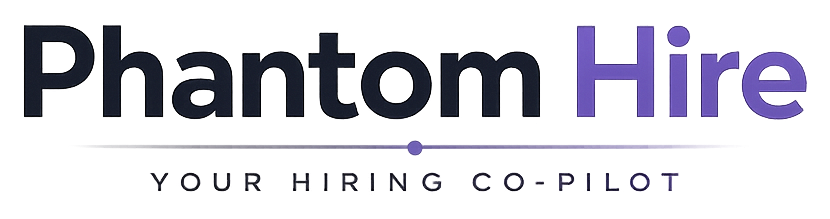
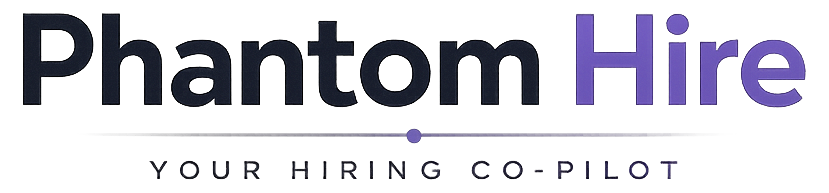
Restore hero ghost mascot, refresh wordmark, fix stale ATS copy
The home hero's big illustration was accidentally swapped to the new
mountain-A brand mark when phantom-icon.png got repointed sitewide for the
nav/footer/auth-shell icon — the hero needs the original ghost mascot, not
the small brand mark, so it gets its own dedicated asset
(phantom-ghost-hero.png) instead of sharing phantom-icon.png.

phantom-wordmark.png re-exported from the freshly uploaded text logo
source (same design, cleaner crop).

three-in-one-section.tsx was still describing Shadow as "Coming soon" and
labeling the ATS pillar "Talent ATS" with a generic Kanban icon — both
wrong now that Shadow actually shipped. Fixed the copy to "Live now" for
Shadow, renamed the pillar to "Phantom ATS" (matching the earlier product
naming decision that never got applied here), and swapped both pillars'
generic Lucide icons for the real product marks (Shadow's ghost, Phantom
ATS's mountain-A).

diff --git a/frontend/src/components/marketing/three-in-one-section.tsx b/frontend/src/components/marketing/three-in-one-section.tsx
@@ -1,28 +1,39 @@
-import { Bot, EyeOff, KanbanSquare } from "lucide-react";
+import Image from "next/image";
+import { Bot } from "lucide-react";
+import type { LucideIcon } from "lucide-react";
 
 import { Badge } from "@/components/ui/badge";
 
-const PILLARS = [
+interface Pillar {
+  title: string;
+  subtitle: string;
+  body: string;
+  status: "Live now" | "Coming soon";
+  icon?: LucideIcon;
+  image?: { src: string; alt: string };
+}
+
+const PILLARS: Pillar[] = [
   {
-    icon: EyeOff,
+    image: { src: "/shadow-icon.png", alt: "" },
     title: "Shadow",
     subtitle: "The anonymous job board",
     body: "Where candidates discover and apply to roles under a Callsign, not a name — staying in the shadows until they choose to step forward.",
-    status: "Coming soon" as const,
+    status: "Live now",
   },
   {
-    icon: KanbanSquare,
-    title: "Talent ATS",
+    image: { src: "/phantom-icon.png", alt: "" },
+    title: "Phantom ATS",
     subtitle: "Your hiring pipeline, end to end",
     body: "Hiring projects, candidate tracking, roles and permissions — the pipeline your team already runs on, built around Zero-Retention from day one.",
-    status: "Live now" as const,
+    status: "Live now",
   },
   {
     icon: Bot,
     title: "Phantom",
     subtitle: "The AI Assistant",
     body: "Reads job descriptions, screens candidates, drafts questions, and briefs the hiring manager — automatically, in the background.",
-    status: "Live now" as const,
+    status: "Live now",
   },
 ];
 
@@ -47,7 +58,17 @@ export function ThreeInOneSection() {
             >
               <div className="flex items-center justify-between">
                 <div className="flex h-10 w-10 items-center justify-center rounded-xl bg-brand/10 text-brand">
-                  <pillar.icon className="h-5 w-5" />
+                  {pillar.image ? (
+                    <Image
+                      src={pillar.image.src}
+                      alt={pillar.image.alt}
+                      width={40}
+                      height={40}
+                      className="h-6 w-6 object-contain"
+                    />
+                  ) : pillar.icon ? (
+                    <pillar.icon className="h-5 w-5" />
+                  ) : null}
                 </div>
                 <Badge variant={pillar.status === "Live now" ? "success" : "outline"}>
                   {pillar.status}

diff --git a/frontend/src/components/marketing/hero-section.tsx b/frontend/src/components/marketing/hero-section.tsx
@@ -90,7 +90,7 @@ export function HeroSection() {
         <div className="relative flex items-center justify-center">
           <div className="absolute h-72 w-72 rounded-full bg-brand/10 blur-3xl" aria-hidden />
           <Image
-            src="/phantom-icon.png"
+            src="/phantom-ghost-hero.png"
             alt="Phantom, the invisible TA partner"
             width={668}
             height={844}

diff --git a/frontend/src/components/marketing/marketing-footer.tsx b/frontend/src/components/marketing/marketing-footer.tsx
@@ -11,8 +11,8 @@ export function MarketingFooter() {
           <Image
             src="/phantom-wordmark.png"
             alt="Phantom Hire"
-            width={830}
-            height={219}
+            width={829}
+            height={193}
             className="h-6 w-auto"
           />
           <span className="text-xs text-muted-foreground">

diff --git a/frontend/src/components/auth-shell.tsx b/frontend/src/components/auth-shell.tsx
@@ -23,8 +23,8 @@ export function AuthShell({
           <Image
             src="/phantom-wordmark.png"
             alt="Phantom Hire"
-            width={830}
-            height={219}
+            width={829}
+            height={193}
             className="h-9 w-auto"
             priority
           />

diff --git a/frontend/src/app/login/page.tsx b/frontend/src/app/login/page.tsx
@@ -32,8 +32,8 @@ export default function LoginChooserPage() {
         <Image
           src="/phantom-wordmark.png"
           alt="Phantom Hire"
-          width={830}
-          height={219}
+          width={829}
+          height={193}
           className="h-9 w-auto"
           priority
         />
